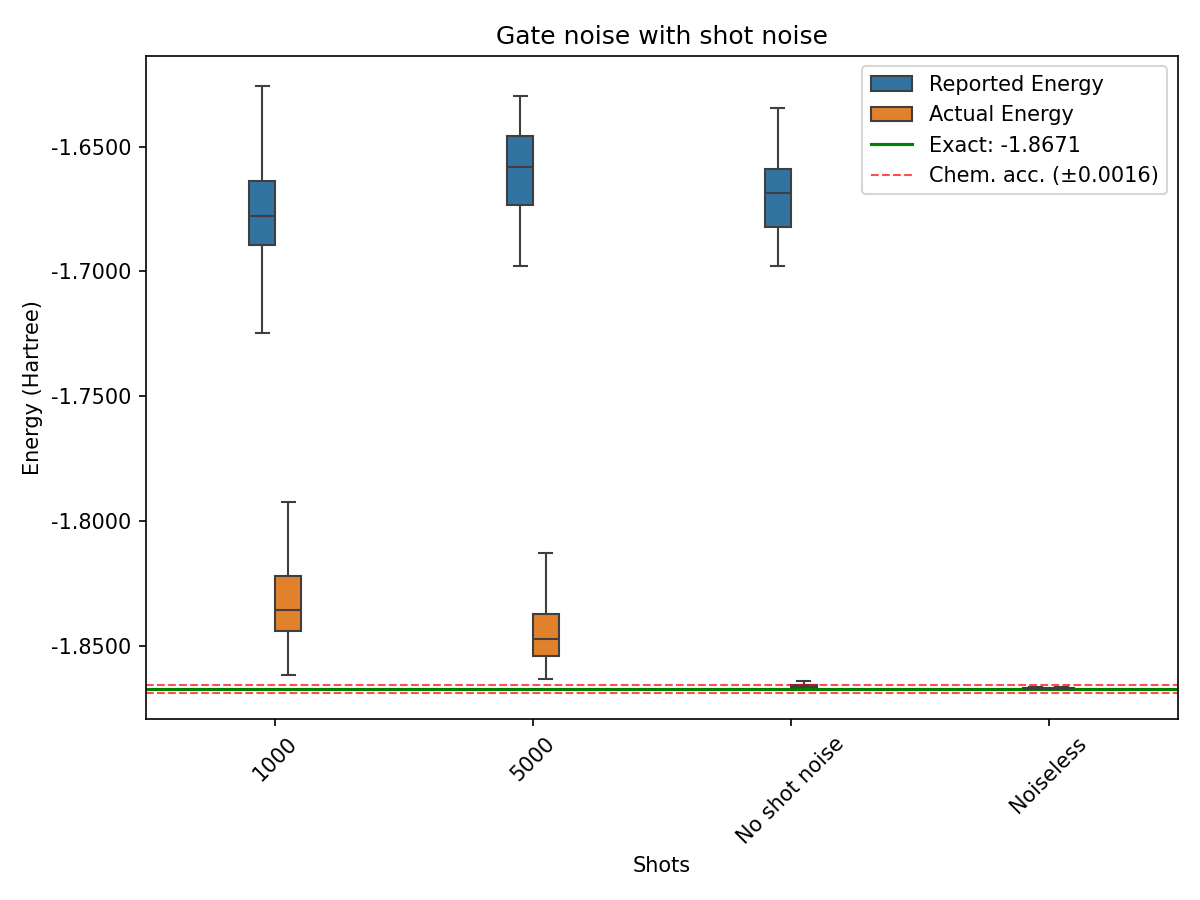
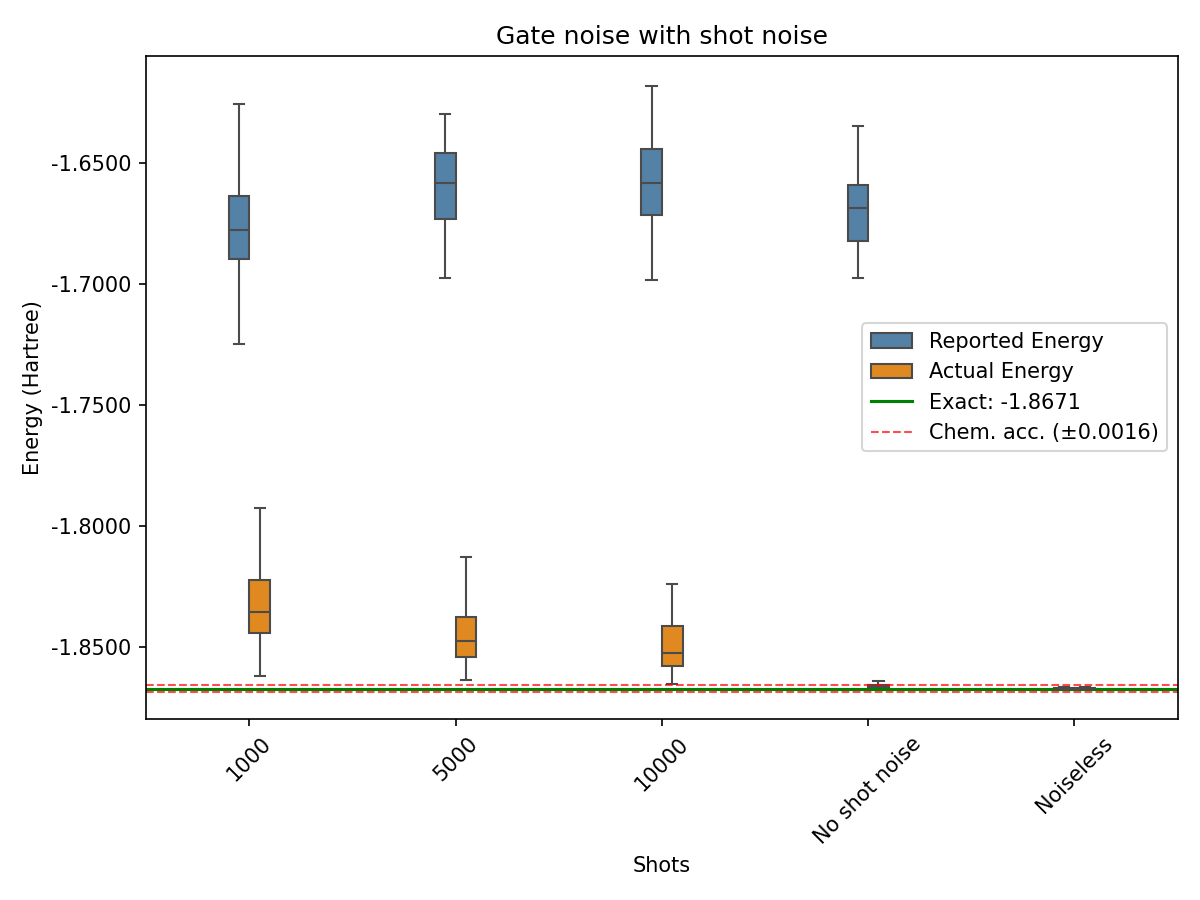
Please enter the commit message for your changes. Lines starting  with '' will be ignored, and an empty message aborts the commit.
On branch main
 Your branch is up to date with 'origin/main'.

 Changes to be committed:
	modified:   graphs/boxplot_gate_noise.png
	modified:   graphs/boxplot_gate_noise_only_actuaL.png
	new file:   graphs/boxplot_shot_noise_closeup.png
	new file:   results/mpi_hopso_gate_noise_10k.csv
	modified:   src/__pycache__/run_all.cpython-312.pyc
	modified:   src/__pycache__/run_mpi.cpython-312.pyc
	modified:   src/costF/__pycache__/costF_4q_H2_qiskit.cpython-312.pyc
	modified:   src/costF/costF_4q_H2_qiskit.py
	modified:   src/optimizers/pso.py
	modified:   src/optimizers/pso_mpi.py
	modified:   src/run_all.py
	modified:   src/run_mpi.py
	modified:   src/utils/__pycache__/box_plots.cpython-312.pyc
	modified:   src/utils/box_plots.py

diff --git a/src/run_mpi.py b/src/run_mpi.py
@@ -3,12 +3,13 @@ import numpy as np
 
 #from costF.costF_2q_IvaH2_qiskit import cost_function_1 as cost_fn_h2
 #from costF.costF_2q_IvaH2_qiskit import ansatz as ansatz_h2
-from src.costF.costF_4q_H2_qiskit import noiseless, prepare_estimators_zne_exact, shot_noise_1k, shot_noise_10k, fakeManilaV2, fakeAthensV2, fakeBogotaV2, gate_noise_1k, shot_noise_5k, shot_noise_100, prepare_estimators_zne_100k, gate_noise_5k, gate_noise_zne_richardson_5k, prepare_estimators_zne_5k, shot_noise_5k, gate_noise_zne_mitiq_linear_5k, gate_noise_zne_mitiq_richardson_5k, gate_noise_zne_mitiq_exponential_5k, gate_noise_pec_mitiq_5k, gate_noise_zne_linear_5k, gate_noise_zne_exponential_5k, gate_noise_pec_mitiq_100k, gate_noise_zne_linear_100k, gate_noise_zne_mitiq_linear_100k, gate_noise_zne_mitiq_richardson_100k, gate_noise_zne_mitiq_exponential_100k, gate_noise_zne_richardson_100k, gate_noise_100k, shot_noise_100k, gate_noise_exact, gate_noise_zne_linear_exact, gate_noise_zne_richardson_exact, gate_noise_zne_exponential_exact, gate_noise_zne_mitiq_exponential_exact, gate_noise_zne_mitiq_linear_exact, gate_noise_zne_mitiq_richardson_exact
+from src.costF.costF_4q_H2_qiskit import noiseless, prepare_estimators_zne_exact, shot_noise_1k, shot_noise_10k, fakeManilaV2, fakeAthensV2, fakeBogotaV2, gate_noise_1k, shot_noise_5k, shot_noise_100, prepare_estimators_zne_100k, gate_noise_5k, gate_noise_zne_richardson_5k, prepare_estimators_zne_5k, shot_noise_5k, gate_noise_zne_mitiq_linear_5k, gate_noise_zne_mitiq_richardson_5k, gate_noise_zne_mitiq_exponential_5k, gate_noise_pec_mitiq_5k, gate_noise_zne_linear_5k, gate_noise_zne_exponential_5k, gate_noise_pec_mitiq_10k, gate_noise_zne_linear_100k, gate_noise_zne_mitiq_linear_100k, gate_noise_zne_mitiq_richardson_100k, gate_noise_zne_mitiq_exponential_100k, gate_noise_zne_richardson_100k, gate_noise_10k, shot_noise_100k, gate_noise_exact, gate_noise_zne_linear_exact, gate_noise_zne_richardson_exact, gate_noise_zne_exponential_exact, gate_noise_zne_mitiq_exponential_exact, gate_noise_zne_mitiq_linear_exact, gate_noise_zne_mitiq_richardson_exact
 from src.costF.costF_4q_H2_qiskit import ansatz as ansatz_h2
 from src.costF.costF_4q_H2_qiskit import E_exact
 #from costF.costF_8q_LiH import cost_fn_8qlih
 #from costF.costF_8q_LiH import ansatz as ansatz_lih
 from src.optimizers.hopso_final_mpi import mpi_hopso
+from src.optimizers.pso_mpi import mpi_pso
 #from src.optimizers.pso_mpi import pso_mpi
 from src.utils.result_handler_csv import write_to_csv
 from time import perf_counter
@@ -36,7 +37,7 @@ def main():
         "fakeBogotaV2": fakeBogotaV2,
         "gate_noise_1k": gate_noise_1k,
         "gate_noise_5k": gate_noise_5k,
-        "gate_noise_100k": gate_noise_100k,
+        "gate_noise_10k": gate_noise_10k,
         "gate_noise_exact": gate_noise_exact,
         "gate_noise_zne_linear_exact": gate_noise_zne_linear_exact,
         "gate_noise_zne_richardson_exact": gate_noise_zne_richardson_exact,
@@ -64,12 +65,13 @@ def main():
     SCALING_FACTOR = 35
     budget = args.budget
     
-    optimizer = mpi_hopso
+    optimizer = mpi_pso
     runs = 100
     dimension = ansatz_h2.num_parameters
     maxcut = 2.05
     max_iterations = budget/num_particles
-    hp = [1, 1, 2*np.pi, SCALING_FACTOR/max_iterations]
+    hp_hopso = [1, 1, 2*np.pi, SCALING_FACTOR/max_iterations]
+    hp_pso = [0.7298, 2.05, 2.05]
 
 
     # Initialize MPI
@@ -119,7 +121,8 @@ def main():
         if(rank == 0):
             start_time = perf_counter()
 
-        e, best_position = mpi_hopso(cost_F, hp, dimension, maxcut, max_iterations, comm, rng)
+        #e, best_position = mpi_hopso(cost_F, hp_hopso, dimension, maxcut, max_iterations, comm, rng)
+        e, best_position = mpi_pso(cost_F, hp_pso, dimension, max_iterations, rng)
         comm.Barrier()
         if(rank == 0):
             end_time = perf_counter()

diff --git a/src/optimizers/pso_mpi.py b/src/optimizers/pso_mpi.py
@@ -5,24 +5,13 @@ from mpi4py import MPI
 def wrap_pi(x):
     return (x + np.pi) % (2*np.pi) - np.pi
 
-def invalid_theta_test(cos_th_i, dead, personal_best_value, theta, rank, iteration):
-    invalid = np.any(cos_th_i < -1) | np.any(cos_th_i > 1) | np.isnan(cos_th_i).any()
-    if np.any(invalid):
-
-        personal_best_value = np.inf
-        dead = True
-        print(f"Particle {rank} killed at iteration {iteration}.")
-    else:
-        theta = np.arccos(cos_th_i)
-    return theta, dead, personal_best_value
-
-def mpi_pso(cost_fn, hp, dimension, particles_per_rank, max_iterations=500, comm=None):
+def mpi_pso(cost_fn, hp, dimension, max_iterations=500, comm=None, rng=None):
     # Unpack hyperparameters
     chi, c1, c2 = hp
 
     # Initialize position and velocity
-    position = np.random.uniform(-np.pi, np.pi, size = (particles_per_rank,dimension))
-    particle_vel = np.random.uniform(-np.pi, np.pi, size = (particles_per_rank,dimension))
+    position = rng.uniform(-np.pi, np.pi, size = (dimension))
+    particle_vel = rng.uniform(-np.pi, np.pi, size = (dimension))
 
     # Personal best
     personal_best_position = position.copy()
@@ -32,8 +21,8 @@ def mpi_pso(cost_fn, hp, dimension, particles_per_rank, max_iterations=500, comm
     rank = comm.Get_rank()
 
     # Initialize global best for the run
-    all_personal_best_values = np.concatenate(comm.allgather(personal_best_value))
-    all_personal_best_positions = np.vstack(comm.allgather(personal_best_position))
+    all_personal_best_values = np.array(comm.allgather(personal_best_value))
+    all_personal_best_positions = np.stack(comm.allgather(personal_best_position))
 
     # Global best
     global_best_idx = np.argmin(all_personal_best_values)
@@ -43,19 +32,18 @@ def mpi_pso(cost_fn, hp, dimension, particles_per_rank, max_iterations=500, comm
 
     iteration = 0
     while iteration < max_iterations:  
-        r1, r2 = np.random.rand(particles_per_rank, dimension), np.random.rand(particles_per_rank, dimension)
+        r1, r2 = rng.random(dimension), rng.random(dimension)
         particle_vel = chi * (particle_vel + c1 * r1 * (personal_best_position - position) + c2 * r2 * (global_best_position - position))
         position = (position + particle_vel)
 
         current_value = cost_fn(position)
 
-        improved = current_value < personal_best_value
-        if np.any(improved): 
-            personal_best_value[improved] = current_value[improved]       
-            personal_best_position[improved] = wrap_pi(position[improved]) # ensure pbest stays in [-π, π]
+        if current_value < personal_best_value: 
+            personal_best_value = current_value       
+            personal_best_position = wrap_pi(position) # ensure pbest stays in [-π, π]
 
-        all_personal_best_values = np.concatenate(comm.allgather(personal_best_value))
-        all_personal_best_positions = np.vstack(comm.allgather(personal_best_position))
+        all_personal_best_values = np.array(comm.allgather(personal_best_value))
+        all_personal_best_positions = np.stack(comm.allgather(personal_best_position))
 
         current_best_idx = np.argmin(all_personal_best_values)
         current_best_val = all_personal_best_values[current_best_idx]
@@ -67,4 +55,4 @@ def mpi_pso(cost_fn, hp, dimension, particles_per_rank, max_iterations=500, comm
         iteration += 1
     
     if(rank == 0):
-        return global_best_value
+        return global_best_value, global_best_position

diff --git a/src/costF/costF_4q_H2_qiskit.py b/src/costF/costF_4q_H2_qiskit.py
@@ -144,12 +144,12 @@ estimator_gate_noise_5k = Estimator(
     }
 )
 
-estimator_gate_noise_100k = Estimator(
+estimator_gate_noise_10k = Estimator(
     backend_options={
         "noise_model": noise_model_depolarization
     },
     run_options={
-        "shots": 100000
+        "shots": 10000
     }
 )
 
@@ -350,8 +350,8 @@ def execute_5k(circuit):
     job = estimator_gate_noise_5k.run([circuit], [H])
     return job.result().values[0]
 
-def execute_100k(circuit):
-    job = estimator_gate_noise_100k.run([circuit], [H])
+def execute_10k(circuit):
+    job = estimator_gate_noise_10k.run([circuit], [H])
     return job.result().values[0]
 
 def mitiq_extrapolate(angles, sf, method, shots):
@@ -368,8 +368,8 @@ def mitiq_extrapolate(angles, sf, method, shots):
     folded_circuits = zne.construct_circuits(circuit=circuit, scale_factors=sf, scale_method=fold_gates_at_random)
     if shots == 5000:
         energies = [execute_5k(c) for c in folded_circuits]
-    elif shots == 100000:
-        energies = [execute_100k(c) for c in folded_circuits]
+    elif shots == 10000:
+        energies = [execute_10k(c) for c in folded_circuits]
     elif shots == None:
         energies = [execute_exact(c) for c in folded_circuits]
 
@@ -429,18 +429,18 @@ def gate_noise_pec_mitiq_5k(angles, last_iteration):
     else:
         return gate_noise_5k(angles)
 
-def gate_noise_pec_mitiq_100k(angles, last_iteration):
+def gate_noise_pec_mitiq_10k(angles, last_iteration):
     if last_iteration:
         mitigated = []
         for a in angles:
             # extrapolate
             circuit = ansatz.assign_parameters(a)
             reps = represent_operations_in_circuit_with_local_depolarizing_noise(circuit, noise_level=depolarizing_prob2)
-            mit = pec.execute_with_pec(circuit, execute_100k, representations=reps, num_samples=1000)
+            mit = pec.execute_with_pec(circuit, execute_10k, representations=reps, num_samples=1000)
             mitigated.append(mit)
         return np.array(mitigated)
     else:
-        return gate_noise_100k(angles)
+        return gate_noise_10k(angles)
 
 def noiseless(angles):
     job = estimator_noiseless.run([ansatz], [H], [angles])
@@ -482,8 +482,8 @@ def gate_noise_5k(angles):
     energy = job.result().values[0]
     return energy
 
-def gate_noise_100k(angles):
-    job = estimator_gate_noise_100k.run([ansatz], [H], [angles])
+def gate_noise_10k(angles):
+    job = estimator_gate_noise_10k.run([ansatz], [H], [angles])
     energy = job.result().values[0]
     return energy
 

diff --git a/src/utils/box_plots.py b/src/utils/box_plots.py
@@ -16,7 +16,7 @@ PRECISION = 1.59e-3
 E_EXACT = E_exact.real
 os.makedirs(OUTPUT_DIR, exist_ok=True)
 
-custom_cf = ['gate_noise_1k', 'gate_noise_5k','gate_noise_exact', 'noiseless']
+custom_cf = ['shot_noise_5k', 'shot_noise_10k', 'noiseless']
 custom_opt = ['mpi_hopso']
 setting = 'cf'
 
@@ -28,7 +28,8 @@ cost_function_labels = {
     'shot_noise_10k': '10000',
     'gate_noise_1k':    '1000',
     'gate_noise_5k':    '5000',
-    'gate_noise_exact': 'No shot noise'
+    'gate_noise_exact': 'No shot noise',
+    'gate_noise_10k': '10000'
     # ... add all your cost functions
 }
 
@@ -227,7 +228,7 @@ def custom(setting):
 
         melted = subset.melt(
             id_vars=[x],
-            value_vars=['real_energy'],
+            value_vars=['final_energy', 'real_energy'],
             var_name='energy_type',
             value_name='energy'
         )
@@ -250,13 +251,13 @@ def custom(setting):
         #sns.boxplot(data=subset, x='optimizer', y='real_energy', order=optimizers, width=0.2, showfliers=False, ax=ax2)
         #ax2.yaxis.set_major_formatter(plt.FormatStrFormatter('%.4f'))
 
-        plt.title(f"Gate noise with shot noise")
+        plt.title(f"Shot noise (5000, 10000, Noiseless)")
         plt.ylabel("Energy (Hartree)")
         plt.xlabel("Shots")
         plt.xticks(rotation=45)
         plt.tight_layout()
         # Sanitize filename
-        out_path = os.path.join(OUTPUT_DIR, f"boxplot_gate_noise_only_actuaL.png")
+        out_path = os.path.join(OUTPUT_DIR, f"boxplot_shot_noise_closeup.png")
         plt.savefig(out_path, dpi=150)
         plt.close()
         print(f"Saved: {out_path}")

diff --git a/src/run_all.py b/src/run_all.py
@@ -3,8 +3,8 @@ import itertools
 
 # Define all configurations
 cost_functions_old = ['shot_noise_10k', 'gate_noise_5k', 'gate_noise_exact', 'gate_noise_1k', 'gate_noise_zne_linear_5k', 'gate_noise_zne_linear_exact', 'gate_noise_zne_richardson_5k', 'gate_noise_zne_richardson_exact', 'gate_noise_zne_mitiq_linear_5k', 'gate_noise_zne_mitiq_richardson_5k', 'gate_noise_zne_mitiq_exponential_5k', 'gate_noise_zne_mitiq_linear_exact', 'gate_noise_zne_mitiq_richardson_exact', 'gate_noise_zne_mitiq_exponential_exact']
-cost_functions = ['gate_noise_zne_exponential_exact', 'gate_noise_zne_exponential_5k']
-mitigation_methods = ['gate_noise_zne_richardson_5k', 'gate_noise_zne_exponential_exact', 'gate_noise_zne_exponential_5k', 'gate_noise_zne_richardson_exact', 'gate_noise_zne_mitiq_linear_5k', 'gate_noise_zne_mitiq_richardson_5k', 'gate_noise_zne_mitiq_exponential_5k', 'gate_noise_zne_mitiq_linear_exact', 'gate_noise_zne_mitiq_richardson_exact', 'gate_noise_zne_mitiq_exponential_exact']
+cost_functions = ['noiseless', 'shot_noise_5k', 'gate_noise_exact', 'gate_noise_5k', 'gate_noise_zne_linear_exact', 'gate_noise_linear_5k']
+mitigation_methods = ['gate_noise_zne_linear_5k', 'gate_noise_zne_linear_exact', 'gate_noise_zne_richardson_5k', 'gate_noise_zne_exponential_exact', 'gate_noise_zne_exponential_5k', 'gate_noise_zne_richardson_exact', 'gate_noise_zne_mitiq_linear_5k', 'gate_noise_zne_mitiq_richardson_5k', 'gate_noise_zne_mitiq_exponential_5k', 'gate_noise_zne_mitiq_linear_exact', 'gate_noise_zne_mitiq_richardson_exact', 'gate_noise_zne_mitiq_exponential_exact']
 
 for cost_fn in cost_functions:
     rank = 12

diff --git a/src/optimizers/pso.py b/src/optimizers/pso.py
@@ -37,4 +37,4 @@ def pso(cost_fn, dimension):
         global_best_position = personal_best_positions[global_best_index]
         iteration += 1
 
-    return global_best_value
+    return global_best_value, global_best_position
